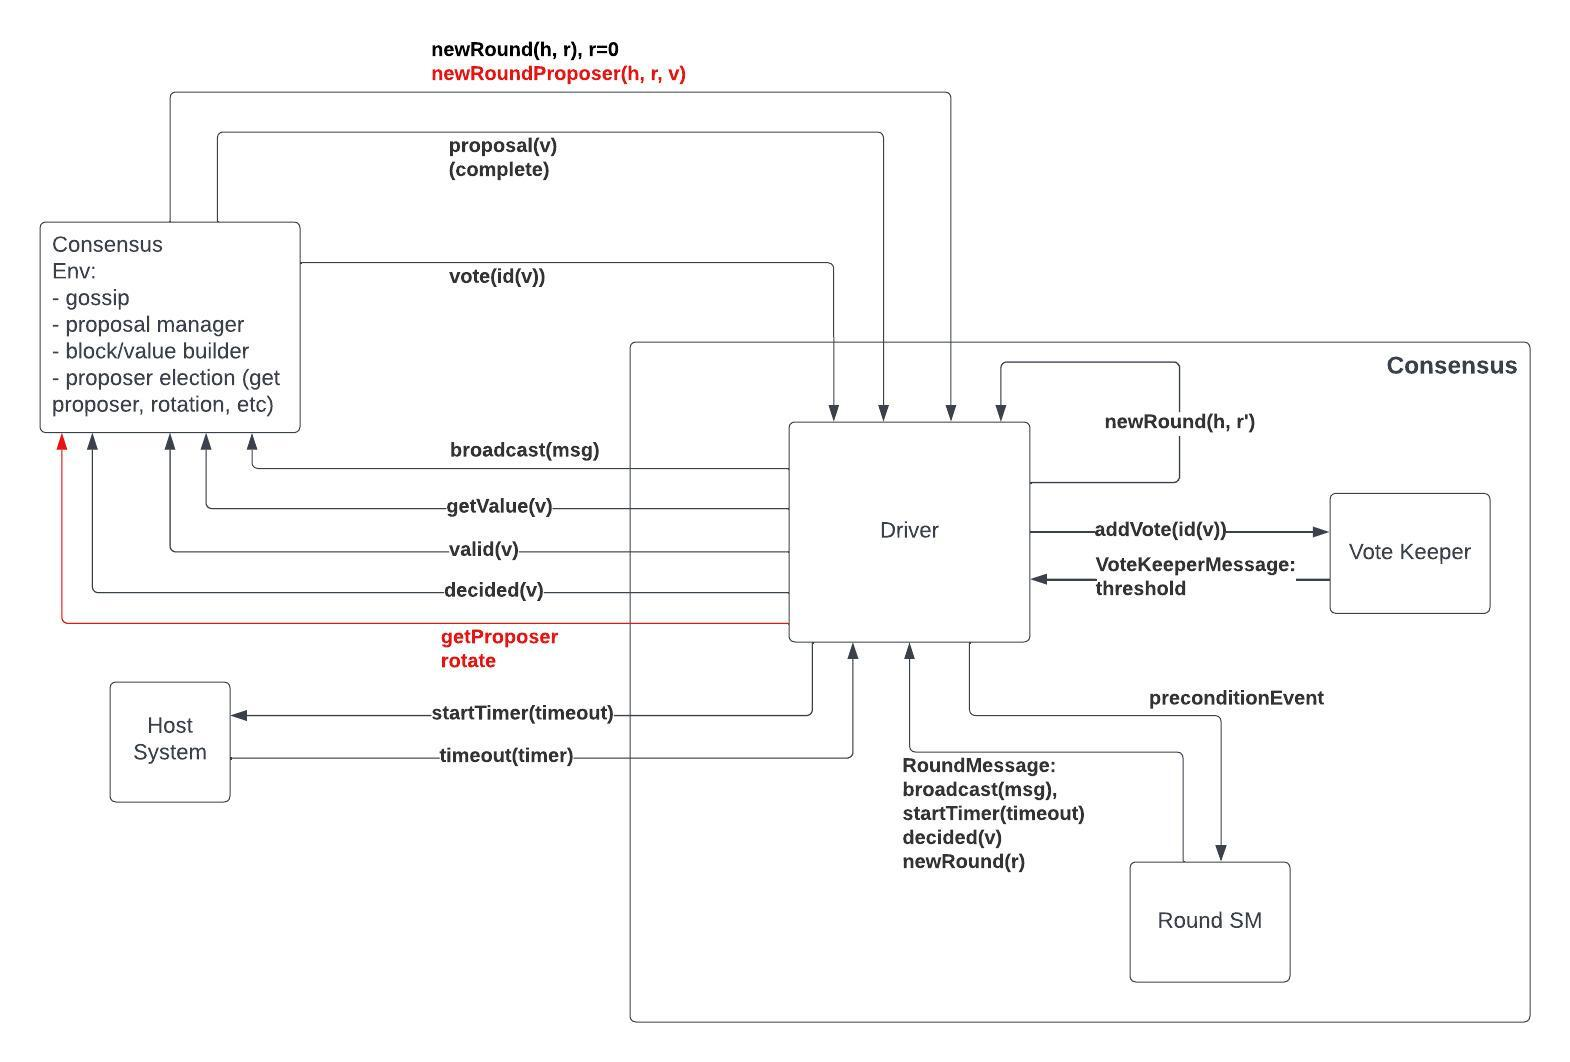
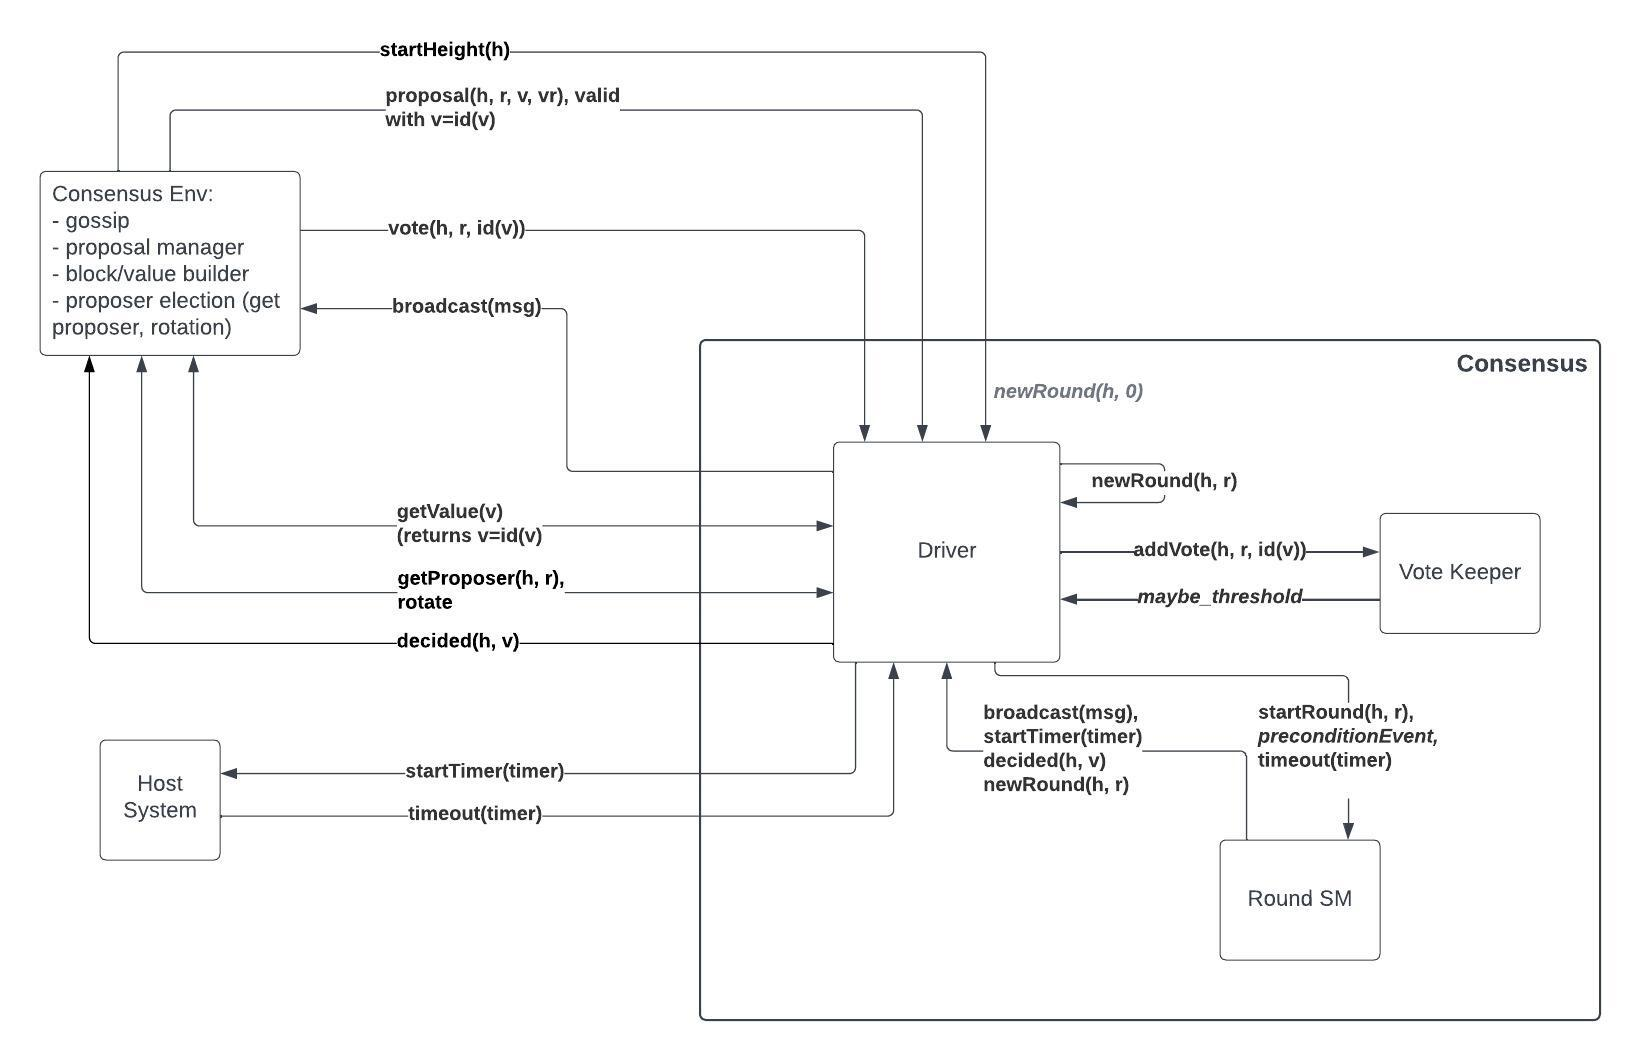
More updates architecture diagram, solved some TBDs, added new ones

diff --git a/Code/common/src/validator_set.rs b/Code/common/src/validator_set.rs
@@ -45,9 +45,6 @@ where
     /// The proposer in the validator set.
     fn get_proposer(&self) -> &Ctx::Validator;
 
-    /// Get the validator with the given public key.
-    fn get_by_public_key(&self, public_key: &PublicKey<Ctx>) -> Option<&Ctx::Validator>;
-
     /// Get the validator with the given address.
     fn get_by_address(&self, address: &Ctx::Address) -> Option<&Ctx::Validator>;
 }

diff --git a/Code/test/src/validator_set.rs b/Code/test/src/validator_set.rs
@@ -149,10 +149,6 @@ impl malachite_common::ValidatorSet<TestContext> for ValidatorSet {
         self.total_voting_power()
     }
 
-    fn get_by_public_key(&self, public_key: &PublicKey) -> Option<&Validator> {
-        self.get_by_public_key(public_key)
-    }
-
     fn get_proposer(&self) -> &Validator {
         self.get_proposer()
     }

diff --git a/Docs/architecture/adr-001-architecture.md b/Docs/architecture/adr-001-architecture.md
@@ -36,7 +36,7 @@ The consensus implementation comprises three components:
 
 ![Consensus SM Architecture Diagram](assets/sm_arch.jpeg)
 
-The components of the consensus implementation as well as the associated abstractions are described below, after a discussion on terminology.
+The components of the consensus implementation as well as the associated abstractions are described in more detail below.
 
 ### Data Types & Abstractions
 
@@ -124,21 +124,16 @@ pub enum Event<C>
 where
     C: Context
 {
-    StartRound(Round),          // Start a new round, currently must be 0
-    Proposal(C::Proposal),      // A proposal has been received, must be complete
-    Vote(SignedVote<C>),        // A vote has been received
-    TimeoutElapsed(Timeout),    // A timeout has elapsed
+    StartRound(Round),            // Start a new round
+    Proposal(C::Proposal, Valid), // A proposal has been received, must be complete
+    Vote(SignedVote<C>),          // A vote has been received
+    TimeoutElapsed(Timeout),      // A timeout has elapsed
 }
 
 ```
 Notes:
-- TBD: Round `0` is always started by an external module. Subsequent rounds may be managed by the driver, or it could be the responsibility of the external module to start a new round.
-  - Could also push the retrieval of the value to the external module, e.g. have `StartRoundProposer(round, proposal)`
-  - Is the change to `StartRound` ok? It matches the paper and (the old name) `NewRound` is also used in some places as output message.
-- TBD: The proposal must be complete, i.e. it must contain a complete value. If this value is sent by the proposer in chunks, it is the responsibility of the chain concrete implementation to collect the proposal for the value ID together with the chunks to create a complete proposal.
-- TBD: The proposal should also implement `valid(v)`. Alternatively, the caller could do the verification and use the following inputs:
-  - `Proposal(C::Proposal)` - a valid proposal has been received
-  - `ProposalInvalid` - an invalid proposal has been received
+- Round `0` is always started by an external module. Subsequent rounds are started by the driver when the Round State Machine indicates it via the `NewRound` message.
+- A proposal event must include a proposal and a `valid` flag indicating if the proposal is valid. The proposal must be complete, i.e. it must contain a complete value or an identifier of the value (`id(v)`). If the value is sent by the proposer in multiple parts, it is the responsibility of the consensus environment to collect and verify all the parts and the proposal message in order to create a complete proposal and the validity flag.
 - `Vote` can be a `Prevote` or `Precommit` vote.
 - The driver interacts with the host system to start timers and expects to receive timeout events for the timers that it started and have fired. The timeouts can be:
 ```
@@ -147,13 +142,20 @@ Notes:
     Precommit,
 ```
 
-TODO: Consolidate the terminology around Events and Messages.
-
 ##### Operation
 
 The Driver sends votes to the Vote Keeper module. The Driver expects that whenever the Keeper observes any threshold of votes for the first time it returns that to the Driver.
 
-Based on its state and the results received from the Vote Keeper, the Driver sends events to the Round State Machine which, once it processes the Driver events, returns consensus-related messages back to the Driver. The Driver then processes these messages and sends them to the peer-to-peer layer, the host system, or other external modules.
+Based on its state and the results received from the Vote Keeper, the Driver sends events to the Round State Machine which, once it processes the Driver events, returns consensus-related messages back to the Driver. The Driver then processes these messages and sends them to the consensus environment, the host system, or in some cases processes them internally (e.g. `NewRound(round)` message).
+
+Notes:
+- Proposals and vote messages must be signed by the sender and validated by the receiver. Signer must be the proposer for `Proposal` and a validator for `Vote`.
+  - TBD: Should the driver perform any signature verification of the messages it receives from the consensus environment (see `verify_signed_vote()` in `Context` trait? Or are we assuming that the consensus environment performs this validation?
+- On `StartRound(round)` event, the Driver must determine if it is the proposer for the given round. For this it needs access to a `validator_set.get_proposer(round)` method or similar.
+- TBD: When skipping to a new round, it may be beneficial to mutate the validator set such that the proposer for the new round is different from the proposer of the previous round, i.e. access to `validator_set.update_proposer()` method (or similar) may be required.
+- When building a proposal the driver will use the `get_value()` method of the environment context to retrieve the value to propose. It will block until a value is available or a (propose) timeout occurs.
+  - It is TBD which Rust constructs will be used to implement this behavior.
+  - TBD how the Round SM could start the propose timer if we block on `get_value()` in the driver.
 
 ##### Output Messages (External Dependencies)
 
@@ -168,6 +170,8 @@ where
     ScheduleTimeout(Timeout),  // Request the host system to start a timer
 }
 ```
+Notes:
+- Should the driver sign the messages before sending them to the consensus environment (see `sign_vote()` in `Context` trait)? Or are we assuming that the consensus environment does this?
 
 #### Vote Keeper
 
@@ -200,10 +204,9 @@ where
     per_round: BTreeMap<Round, PerRound<C>>,
 }
 ```
-Note: The above is a first draft and is likely to change:
+
 - The quorum and minimum correct validator thresholds are passed in as parameters during initialization. These are used for the different threshold calculations.
 - The `validator_set` is used to detect equivocation; also to ensure that prevote and precommit messages from the same validator are not counted twice for the same round, e.g. in the case of the `honest_threshold` case (`f+1` in L55 in the BFT paper) for prevotes and precommits.
-- TBD: may require future changes if the keeper also handles proposal messages.
 
 ##### Input Events (Internal APIs)
 
@@ -268,7 +271,7 @@ where
 The events passed to the Round state machine are very close to the preconditions for the transition functions in the BFT paper, i.e., the `upon` clauses.
 In addition:
 - The `StartRound` events specify if the SM runs in the proposer mode or not. In the former case, the driver also passes a valid value to the round SM.
-- There are two `Poposal` events, for valid and invalid values respectively. Therefore, the `valid(v)` check is not performed in the round SM but externally by the driver (TODO TBD who exactly does that)
+- There are two `Poposal` events, for valid and invalid values respectively. Therefore, the `valid(v)` check is not performed in the round SM but by the Driver
 
 ```rust
 pub enum Event<C> 
